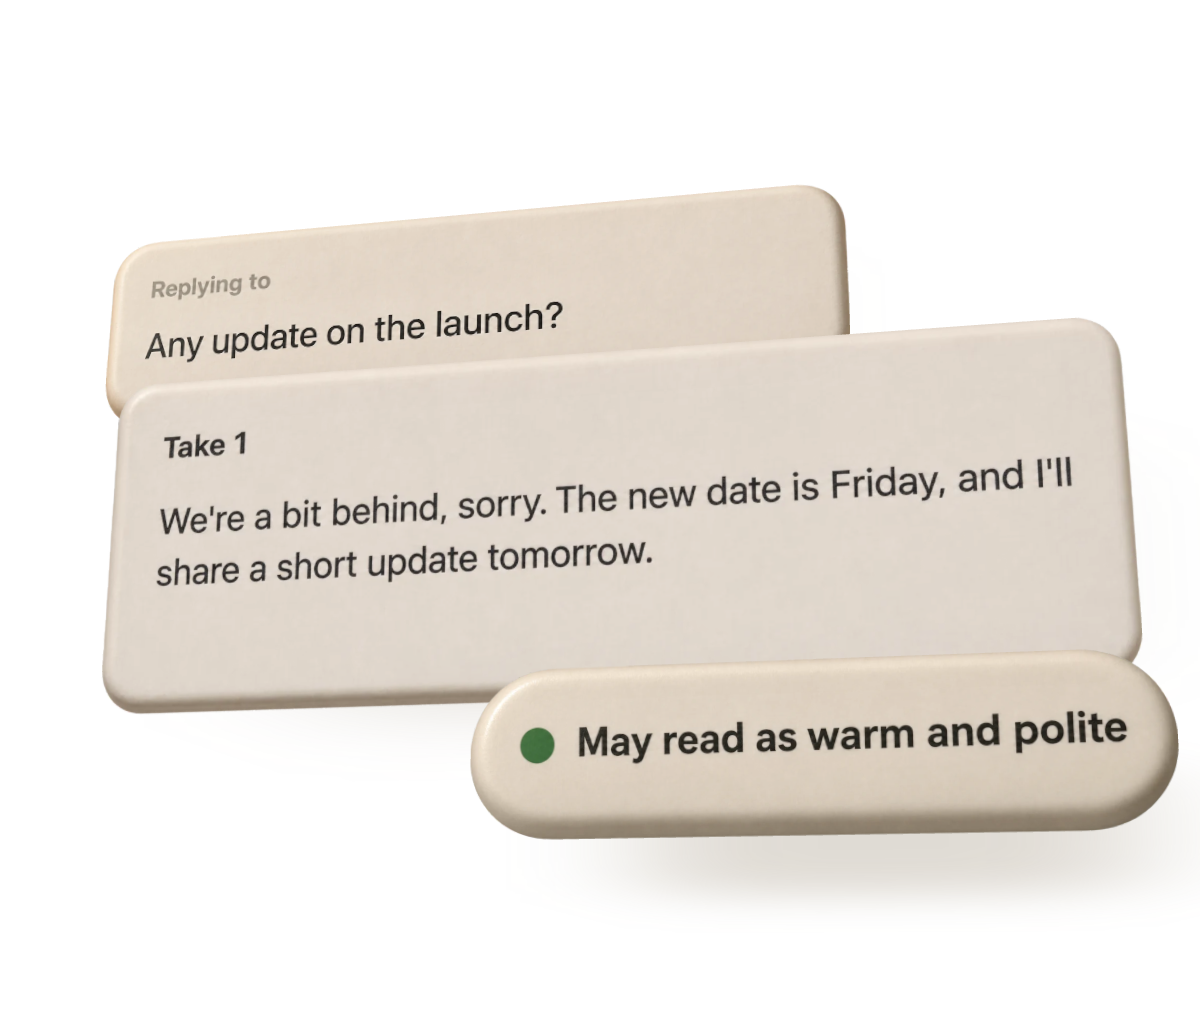
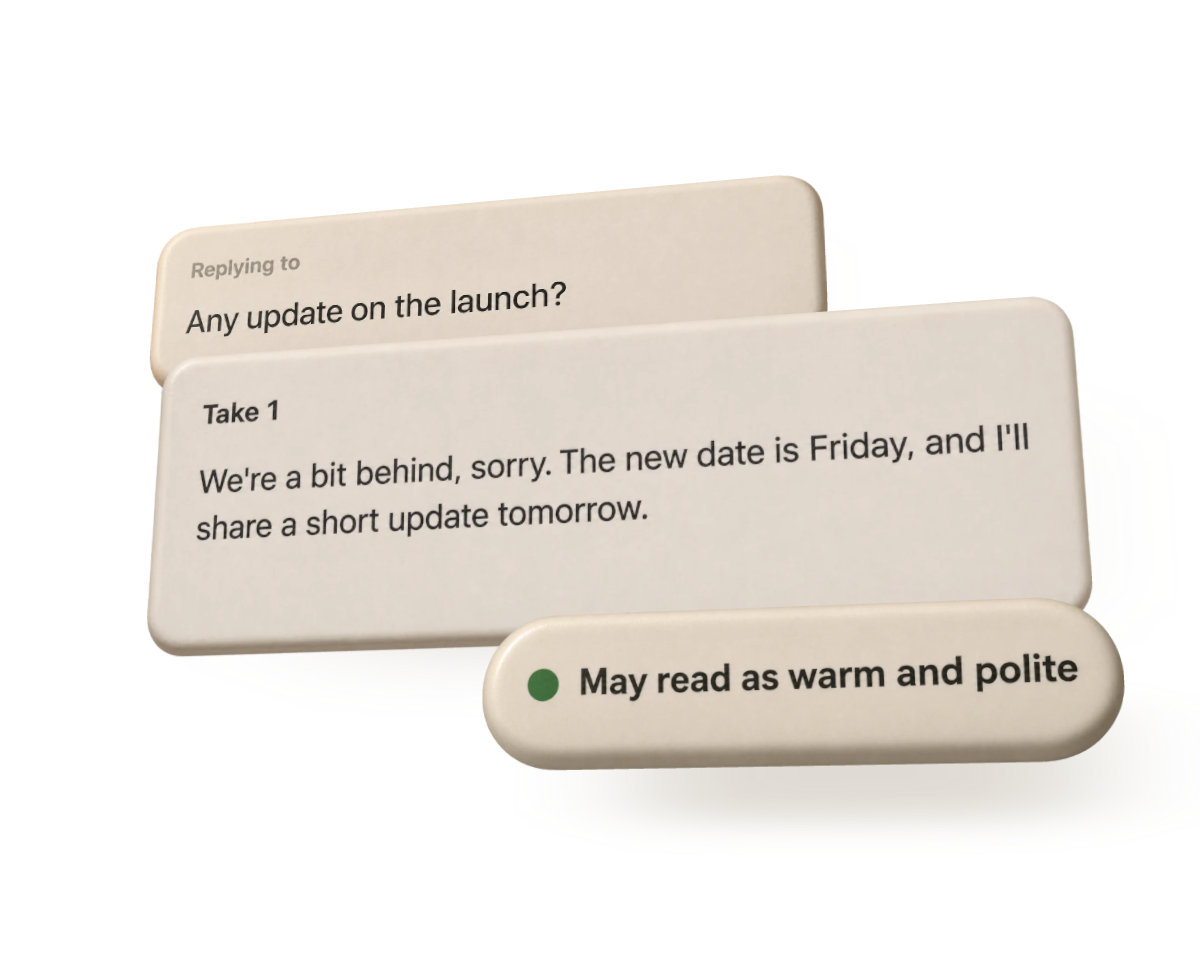
Carousel: fit scenes to the card so only true overflow uses the bleed

Changed region(s): [[0.0617, 0.2123, 0.9867, 0.819], [0.37, 0.182, 0.6167, 0.2123], [0.6475, 0.182, 0.7092, 0.3337]]

diff --git a/site/index.html b/site/index.html
@@ -372,7 +372,7 @@ fill="currentColor" stroke="none">
     <div class="wrap">
       <div class="label eyebrow">The product</div>
       <h2 class="display">Choice is the product.</h2>
-      <div class="layers" data-scene="takes" data-sprites="img/layers/parts" tabindex="0" aria-label="The Takes panel as floating layers: the draft above three takes of a Slack message. Point at a take, or use the arrow keys, to bring it to the front."><img src="img/layers/takes-front.webp?v=4" width="1500" height="1000" alt="The Takes panel as floating layers: the draft above three takes of a Slack message, the middle take lifted to the front"></div>
+      <div class="layers" data-scene="takes" data-sprites="img/layers/parts" tabindex="0" aria-label="The Takes panel as floating layers: the draft above three takes of a Slack message. Point at a take, or use the arrow keys, to bring it to the front."><img src="img/layers/takes-front.webp?v=5" width="1500" height="1000" alt="The Takes panel as floating layers: the draft above three takes of a Slack message, the middle take lifted to the front"></div>
       <p class="caption">Compare complete alternatives, inspect changes, refine a selected take, then paste it back.</p>
     </div>
   </section>
@@ -384,39 +384,39 @@ fill="currentColor" stroke="none">
     </div>
     <ol class="track" tabindex="0" aria-label="Features, scroll sideways or use the arrow keys">
         <li class="slide" id="slide-shortcut" aria-label="1 of 9: Everything has a shortcut.">
-          <div class="slide-stage" data-scene="shortcut" data-sprites="img/slides/parts/shortcut"><img src="img/slides/stills/shortcut.webp?v=4" width="1200" height="1035" alt="A message field with a rough Slack draft, the Control, Option and Space keys in front of it like a keyboard, and the Slack message preset picked"></div>
+          <div class="slide-stage" data-scene="shortcut" data-sprites="img/slides/parts/shortcut"><img src="img/slides/stills/shortcut.webp?v=5" width="1200" height="956" alt="A message field with a rough Slack draft, the Control, Option and Space keys in front of it like a keyboard, and the Slack message preset picked"></div>
           <div class="slide-copy"><div class="label">Shortcuts</div><h3>Everything has a shortcut.</h3><p>Control + Option + Space opens Takes with your draft, in any app. Every move after that has a shortcut too, so each kind of use stays fast: pick a preset, jump to a take, paste.</p></div>
         </li>
         <li class="slide" id="slide-presets" aria-label="2 of 9: Configured, personal style">
-          <div class="slide-stage" data-scene="presets" data-sprites="img/slides/parts/presets"><img src="img/slides/stills/presets.webp?v=4" width="1200" height="1035" alt="The Polish email preset selected in the preset list, with its instruction, its Do rules and its Avoid rules on separate tiles" loading="lazy"></div>
+          <div class="slide-stage" data-scene="presets" data-sprites="img/slides/parts/presets"><img src="img/slides/stills/presets.webp?v=5" width="1200" height="956" alt="The Polish email preset selected in the preset list, with its instruction, its Do rules and its Avoid rules on separate tiles" loading="lazy"></div>
           <div class="slide-copy"><div class="label">Presets</div><h3>Configured, personal style</h3><p>Set Do and Avoid rules, voice rules for every preset, and up to five examples of how you write.</p></div>
         </li>
         <li class="slide" id="slide-proofread" aria-label="3 of 9: Proofread, marked">
-          <div class="slide-stage" data-scene="proofread" data-sprites="img/slides/parts/proofread"><img src="img/slides/stills/proofread.webp?v=4" width="1200" height="1035" alt="A proofread take with three fixes marked, reveiw to review, tommorow to tomorrow and its to it's, and the fixes floating beside it" loading="lazy"></div>
+          <div class="slide-stage" data-scene="proofread" data-sprites="img/slides/parts/proofread"><img src="img/slides/stills/proofread.webp?v=5" width="1200" height="956" alt="A proofread take with three fixes marked, reveiw to review, tommorow to tomorrow and its to it's, and the fixes floating beside it" loading="lazy"></div>
           <div class="slide-copy"><div class="label">Proofread</div><h3>Proofread, marked</h3><p>Fixes spelling, grammar and punctuation, and keeps your words. Each fix is marked; when nothing needs fixing, Takes says so.</p></div>
         </li>
         <li class="slide" id="coach" aria-label="4 of 9: Write it better next time.">
-          <div class="slide-stage" data-scene="coach" data-sprites="img/slides/parts/coach"><img src="img/slides/stills/coach.webp?v=4" width="1200" height="1035" alt="A draft with three flagged phrases and the English coach below it, its fixes lifted out: If you will send to If you send, until tomorrow to by tomorrow, make you a feedback to give you feedback" loading="lazy"></div>
+          <div class="slide-stage" data-scene="coach" data-sprites="img/slides/parts/coach"><img src="img/slides/stills/coach.webp?v=5" width="1200" height="956" alt="A draft with three flagged phrases and the English coach below it, its fixes lifted out: If you will send to If you send, until tomorrow to by tomorrow, make you a feedback to give you feedback" loading="lazy"></div>
           <div class="slide-copy"><div class="label">English Coach</div><h3>Write it better next time.</h3><p>Turn on the English coach and it spots the mistakes your takes fix, notices the ones you repeat, and teaches them back with your own sentences.</p></div>
         </li>
         <li class="slide" id="slide-local" aria-label="5 of 9: A model on your Mac">
-          <div class="slide-stage" data-scene="local" data-sprites="img/slides/parts/local"><img src="img/slides/stills/local.webp?v=4" width="1200" height="1035" alt="A dark Engine card reading Local model, Ollama found on this Mac, with the model menu over it and an On this Mac badge" loading="lazy"></div>
+          <div class="slide-stage" data-scene="local" data-sprites="img/slides/parts/local"><img src="img/slides/stills/local.webp?v=5" width="1200" height="956" alt="A dark Engine card reading Local model, Ollama found on this Mac, with the model menu over it and an On this Mac badge" loading="lazy"></div>
           <div class="slide-copy"><div class="label">Local model</div><h3>A model on your Mac</h3><p>Use Ollama or LM Studio instead of Claude, and your drafts never leave the Mac.</p></div>
         </li>
         <li class="slide" id="slide-instant" aria-label="6 of 9: Right away">
-          <div class="slide-stage" data-scene="instant" data-sprites="img/slides/parts/instant"><img src="img/slides/stills/instant.webp?v=4" width="1200" height="1035" alt="A pasted message in a field, a Pasted toast with Command Z to undo, and a yellow Return key" loading="lazy"></div>
+          <div class="slide-stage" data-scene="instant" data-sprites="img/slides/parts/instant"><img src="img/slides/stills/instant.webp?v=5" width="1200" height="956" alt="A pasted message in a field, a Pasted toast with Command Z to undo, and a yellow Return key" loading="lazy"></div>
           <div class="slide-copy"><div class="label">Instant paste</div><h3>Right away</h3><p>Give a preset its own shortcut and it writes and pastes, no panel.</p></div>
         </li>
         <li class="slide" id="slide-dictation" aria-label="7 of 9: Say it">
-          <div class="slide-stage" data-scene="dictation" data-sprites="img/slides/parts/dictation"><img src="img/slides/stills/dictation.webp?v=4" width="1200" height="1035" alt="A draft being dictated, with a blue waveform and a Dictating label" loading="lazy"></div>
+          <div class="slide-stage" data-scene="dictation" data-sprites="img/slides/parts/dictation"><img src="img/slides/stills/dictation.webp?v=5" width="1200" height="956" alt="A draft being dictated, with a blue waveform and a Dictating label" loading="lazy"></div>
           <div class="slide-copy"><div class="label">Dictation</div><h3>Say it</h3><p>Dictate a draft. Speech stays on your Mac.</p></div>
         </li>
         <li class="slide" id="slide-tone" aria-label="8 of 9: Context and tone">
-          <div class="slide-stage" data-scene="tone" data-sprites="img/slides/parts/tone"><img src="img/slides/stills/tone.webp?v=4" width="1200" height="1035" alt="A take replying to Any update on the launch, with a note that it may read as warm and polite" loading="lazy"></div>
+          <div class="slide-stage" data-scene="tone" data-sprites="img/slides/parts/tone"><img src="img/slides/stills/tone.webp?v=5" width="1200" height="956" alt="A take replying to Any update on the launch, with a note that it may read as warm and polite" loading="lazy"></div>
           <div class="slide-copy"><div class="label">Context and tone</div><h3>Context and tone</h3><p>Add the message you're answering. See how each take may land.</p></div>
         </li>
         <li class="slide" id="slide-languages" aria-label="9 of 9: Your languages">
-          <div class="slide-stage" data-scene="languages" data-sprites="img/slides/parts/languages"><img src="img/slides/stills/languages.webp?v=4" width="1200" height="1035" alt="The same take in German, Spanish and English, stacked" loading="lazy"></div>
+          <div class="slide-stage" data-scene="languages" data-sprites="img/slides/parts/languages"><img src="img/slides/stills/languages.webp?v=5" width="1200" height="956" alt="The same take in German, Spanish and English, stacked" loading="lazy"></div>
           <div class="slide-copy"><div class="label">Languages</div><h3>Your languages</h3><p>Reply in any language, with a translate preset for each one you write in.</p></div>
         </li>
     </ol>
@@ -485,9 +485,9 @@ fill="currentColor" stroke="none">
     // Each slide's graphic is a live WebGL scene of separately rendered pieces; only the slides on screen keep one.
     const live = new Map(); let lib;
     const wake = async (slide) => { const st = slide.querySelector(".slide-stage"); if (!st || live.has(st)) return; live.set(st, null);
-      try { lib = lib || await import("./js/layers.js?v=12");
+      try { lib = lib || await import("./js/layers.js?v=13");
         if (!live.has(st)) return;
-        live.set(st, lib.mount(st, st.dataset.scene, { interactive: true, sprites: st.dataset.sprites, onReady: () => st.classList.add("live") }));
+        live.set(st, lib.mount(st, st.dataset.scene, { interactive: true, sprites: st.dataset.sprites, card: true, onReady: () => st.classList.add("live") }));
       } catch (err) { console.warn("layers: slide failed", st.dataset.scene, err); live.delete(st); } };
     const sleep = (slide) => { const st = slide.querySelector(".slide-stage"); const m = live.get(st); live.delete(st); m?.destroy(); st?.classList.remove("live"); };
     const near = new IntersectionObserver((es) => es.forEach((e) => (e.isIntersecting ? wake : sleep)(e.target)), { root: track, threshold: 0.15 });
@@ -505,7 +505,7 @@ fill="currentColor" stroke="none">
   if (el && "IntersectionObserver" in window) {
     const io = new IntersectionObserver(async ([e]) => {
       if (!e.isIntersecting) return; io.disconnect();
-      try { const { mount } = await import("./js/layers.js?v=12"); mount(el, el.dataset.scene, { interactive: true, sprites: el.dataset.sprites }); el.classList.add("live"); }
+      try { const { mount } = await import("./js/layers.js?v=13"); mount(el, el.dataset.scene, { interactive: true, sprites: el.dataset.sprites }); el.classList.add("live"); }
       catch { /* no WebGL or offline: keep the still */ }
     }, { rootMargin: "300px" });
     io.observe(el);

diff --git a/site/js/layers.js b/site/js/layers.js
@@ -293,7 +293,9 @@ function frameRight(renderer, scene, camera) {
 // opts: interactive (hover/tap/arrows bring a take forward), exportMode (render once, transparent),
 // part (export one named part alone, front-on), shot (export the wide carousel framing), sprites (a folder of
 // rendered part images; the takes scene then shows those instead of its own tiles).
-export function mount(el, name, { interactive = false, exportMode = false, part = null, shot = false, sprites = null, onReady = null } = {}) {
+// card: the stage is a carousel stage that bleeds past its card (6% right, 13% top and bottom); the scene is then
+// fitted to the card's area, so only pieces that really stick out use the bleed.
+export function mount(el, name, { interactive = false, exportMode = false, part = null, shot = false, sprites = null, onReady = null, card = false } = {}) {
   const reduce = matchMedia("(prefers-reduced-motion: reduce)").matches;
   const renderer = new THREE.WebGLRenderer({ antialias: true, alpha: true, preserveDrawingBuffer: exportMode });
   renderer.setClearColor(0x000000, 0); renderer.outputColorSpace = THREE.SRGBColorSpace;
@@ -336,7 +338,8 @@ export function mount(el, name, { interactive = false, exportMode = false, part 
     const w = el.clientWidth || 800, h = el.clientHeight || 520; renderer.setSize(w, h, false);
     canvas.style.width = "100%"; canvas.style.height = "100%";
     camera.aspect = w / h; const t = Math.tan(THREE.MathUtils.degToRad(camera.fov / 2));
-    const d = Math.max(bounds[1] / 2 / t, bounds[0] / 2 / (t * camera.aspect)) * (exportMode && !sprites ? (part ? 1.04 : 1.22) : name === "takes" ? 1.12 : 1.1 / zoom);
+    const fw = card ? 60 / 66 : 1, fh = card ? 1 / 1.26 : 1;
+    const d = Math.max(bounds[1] / 2 / (t * fh), bounds[0] / 2 / (t * camera.aspect * fw)) * (exportMode && !sprites ? (part ? 1.04 : 1.22) : name === "takes" ? 1.12 : 1.1 / zoom);
     camera.position.set(0, 0, d + 1); camera.lookAt(0, 0, 0); camera.clearViewOffset(); camera.zoom = 1;
     camera.updateProjectionMatrix();
   }

diff --git a/site/layers.html b/site/layers.html
@@ -29,8 +29,8 @@
   if (exp) { stage.style.width = (q.get("w") || 1600) + "px"; stage.style.height = (q.get("h") || 1000) + "px"; }
   for (const s of ["takes", "shortcut", "presets", "proofread", "coach", "local", "instant", "dictation", "tone", "languages", "compose"])
     document.querySelector("nav").insertAdjacentHTML("beforeend", `<a href="?scene=${s}">${s}</a>`);
-  const part = q.get("part"), shot = q.has("shot"), sprites = q.get("sprites");
-  mount(stage, scene, { interactive: !exp, exportMode: exp, part, shot, sprites });
+  const part = q.get("part"), shot = q.has("shot"), sprites = q.get("sprites"), card = q.has("card");
+  mount(stage, scene, { interactive: !exp, exportMode: exp, part, shot, sprites, card });
   document.title = "ready";
 </script>
 </body>
